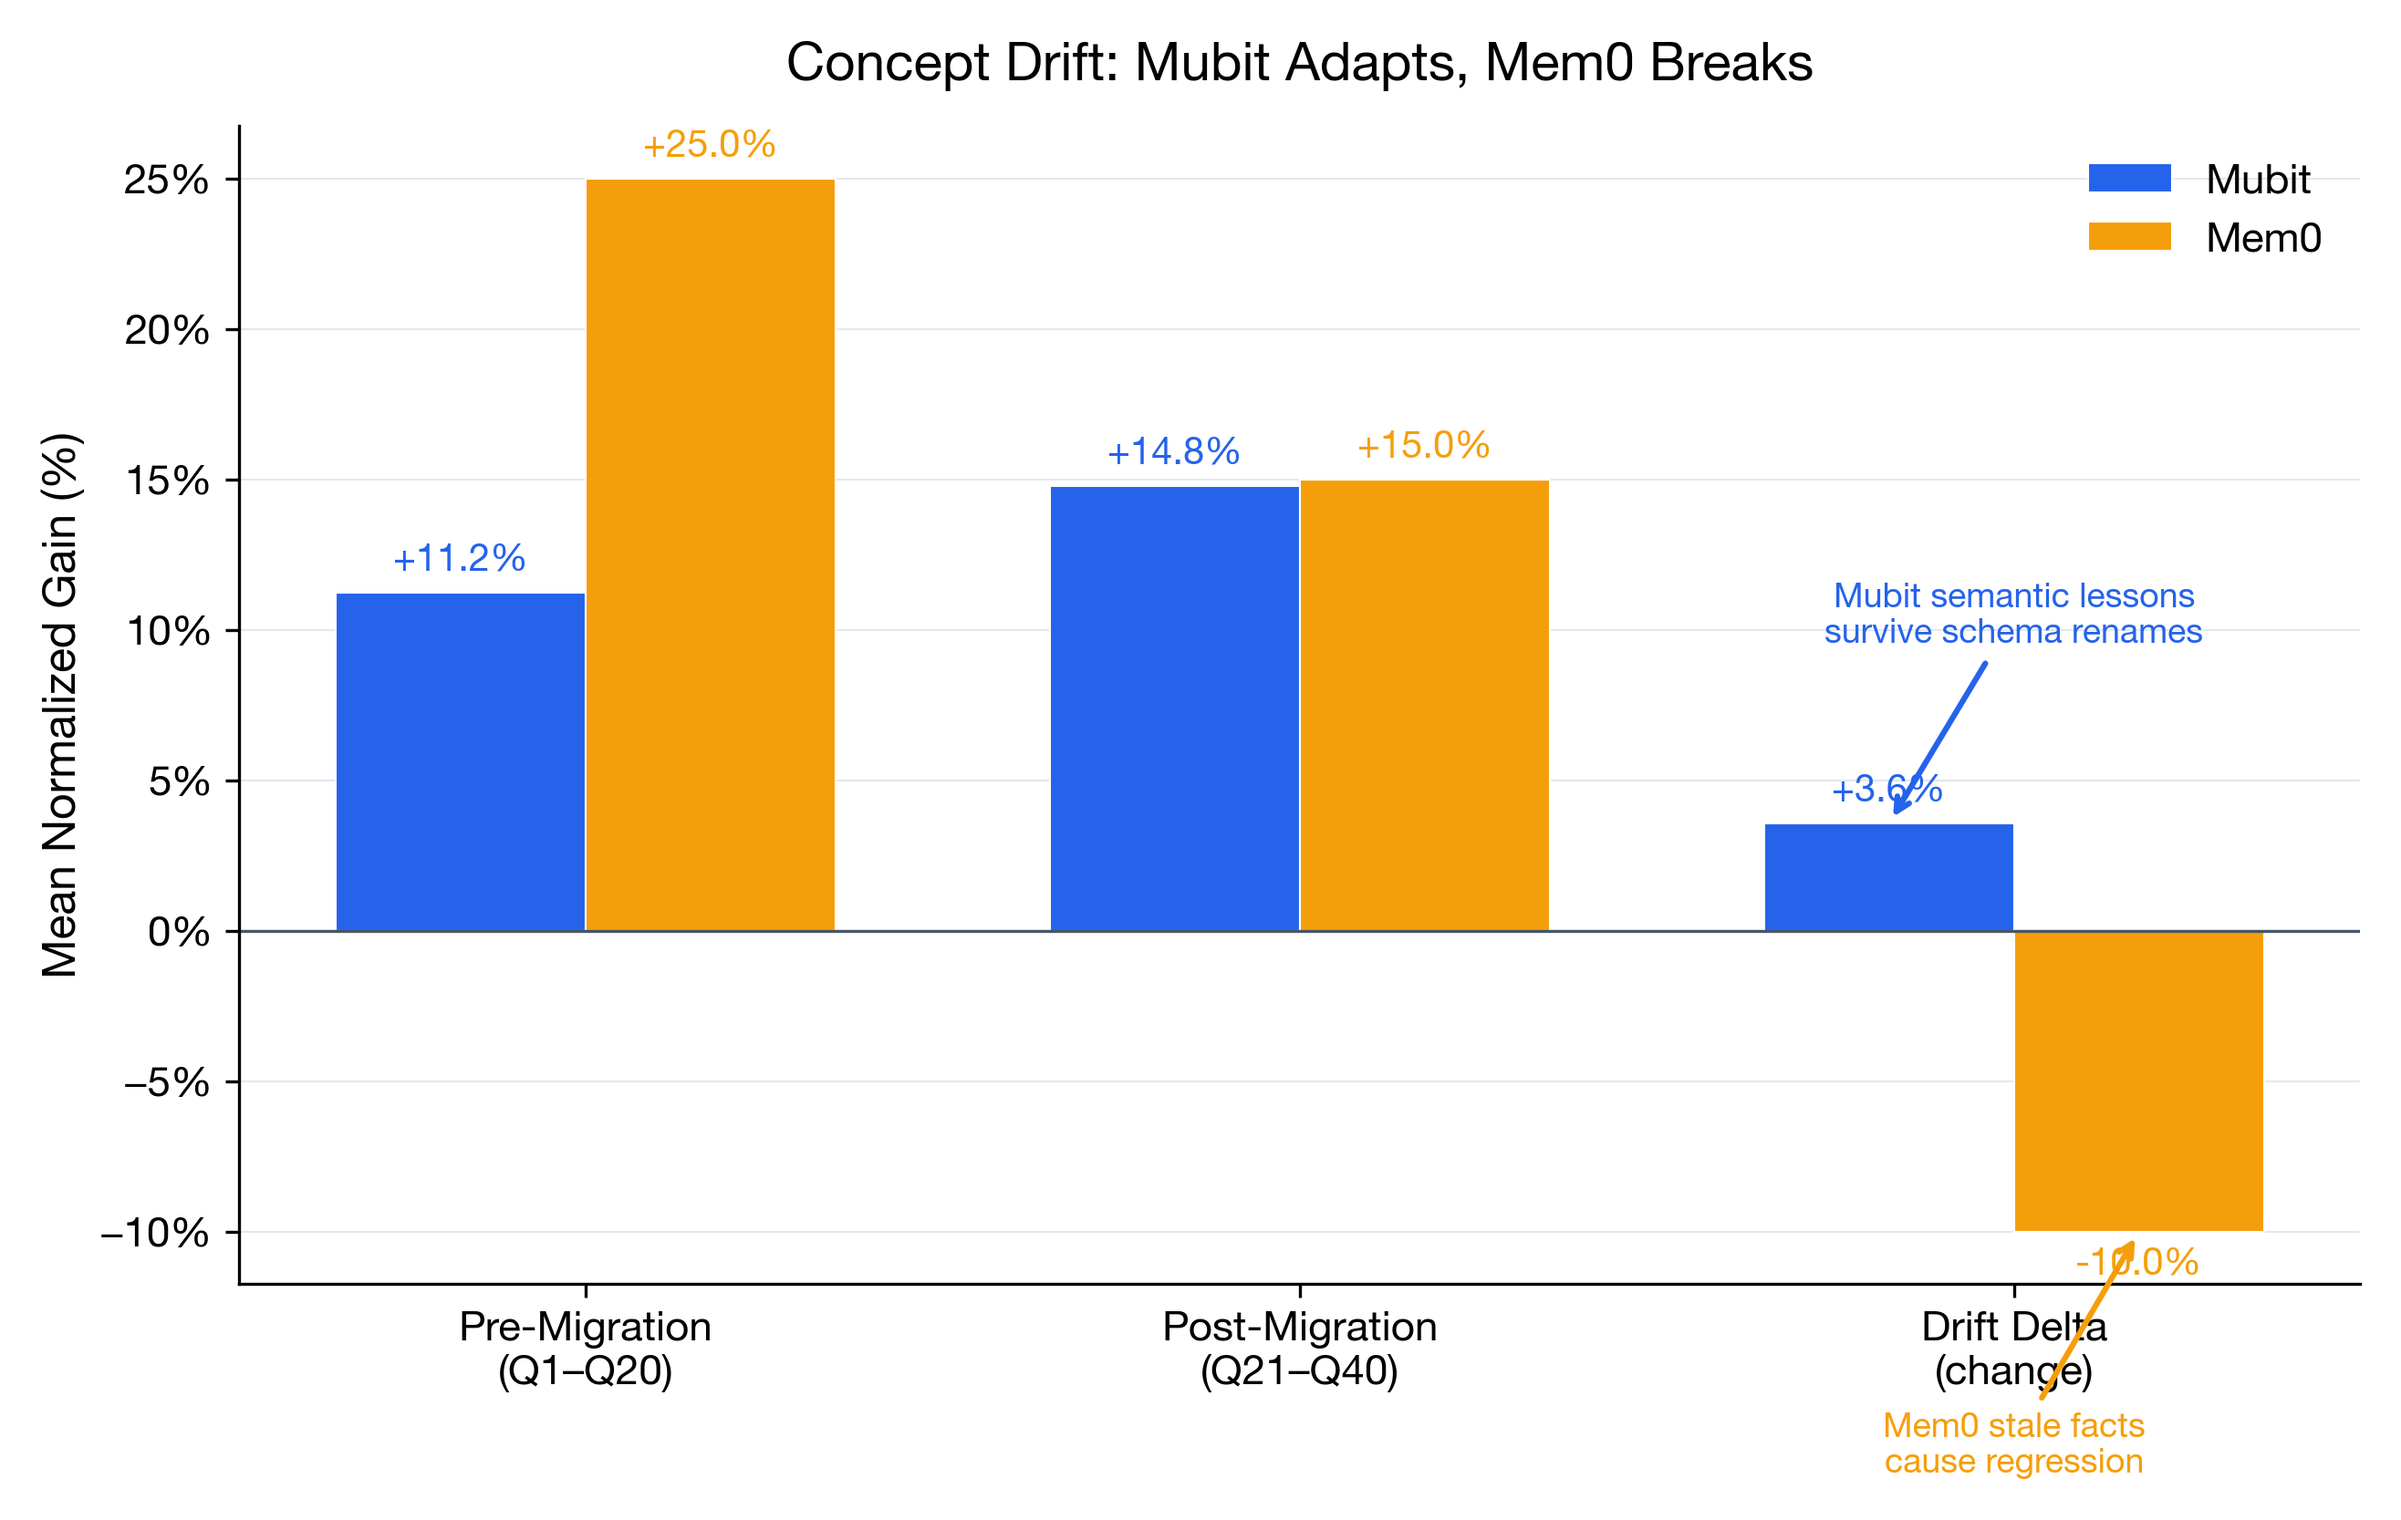
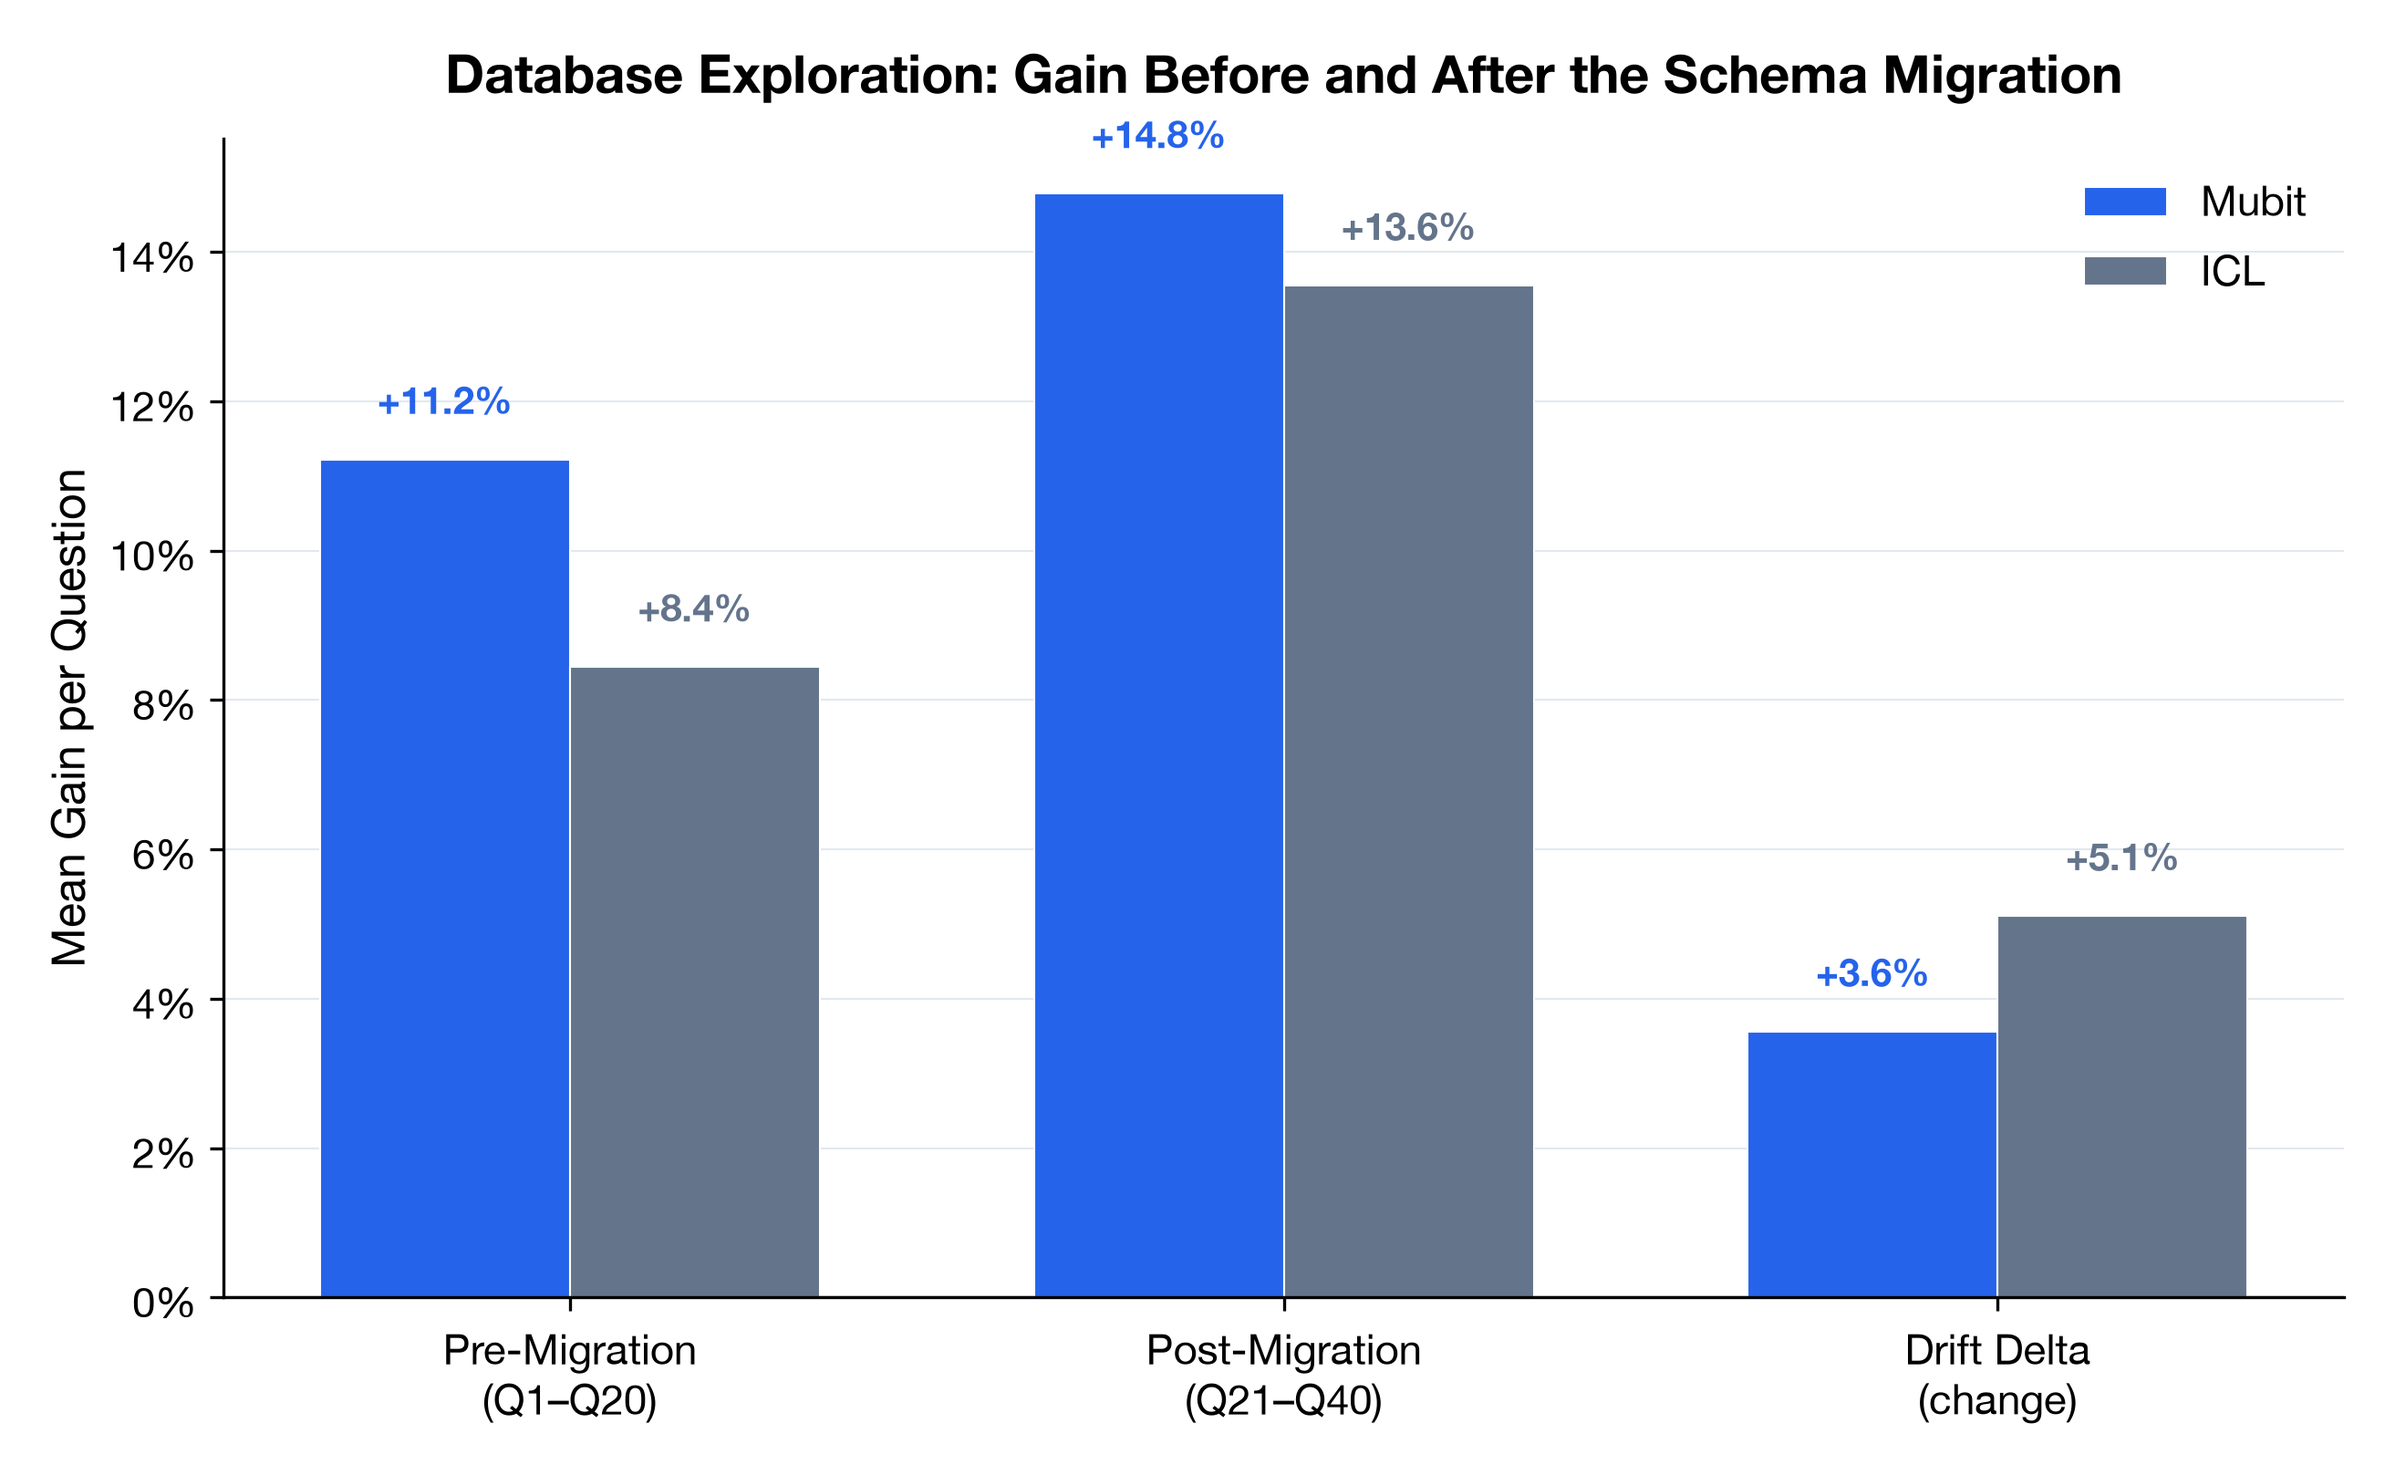
charts: the Mem0 drift series was hardcoded fallback constants
generate_charts.py built the Mem0 bars from d.get("pre_migration_gain_mem0",
0.25) and d.get("post_migration_gain_mem0", 0.15), and chart_data.json held
exactly 0.25 / 0.15 — the function's own defaults, written back into the data
file. There is no Mem0 artifact anywhere in results/ and no script computes
those keys, so "Concept Drift: Mubit Adapts, Mem0 Breaks" plotted one measured
series against one invented one. chart_7_mubit_vs_mem0_drift was the same
fabrication in a second chart, and summary_stats.database carried it as prose.

Replaced with the ICL series, which is real and reproduces from the artifacts
via analyze_results.py (pre +0.0844 -> post +0.1355 against Mubit's +0.1122 ->
+0.1478). The honest comparison is less flattering: ICL's drift delta is the
larger one.

Regenerating was the point — deleting the constants left charts/chart5 still
rendering the invented bars, since the committed PNG predates the change.

chart_1 plotted normalized g_b for some rows and raw gain for others under an
axis labelled "Raw Gain (r_sf - r_sl)"; the rows carrying g_b now say so, and
the Database row's model tag matches its artifact.

diff --git a/scripts/generate_charts.py b/scripts/generate_charts.py
@@ -331,22 +331,23 @@ def chart_4_per_run_consistency():
 
 
 def chart_5_drift_adaptation():
-    """Mubit vs Mem0 drift adaptation — the key differentiator."""
+    """Mubit vs ICL gain either side of the schema migration."""
     d = DATA["chart_5_database_drift_adaptation"]
 
     fig, ax = plt.subplots(figsize=(10, 5.5))
 
-    # Data: pre/post migration gains for Mubit vs Mem0
+    # Both series come from artifacts in results/database_exploration (mubit-db-3,
+    # icl-db-3). Mem0 used to be plotted here from invented constants — no Mem0 run exists.
     categories = ["Pre-Migration\n(Q1–Q20)", "Post-Migration\n(Q21–Q40)", "Drift Delta\n(change)"]
     mubit_vals = [
         d["pre_migration_gain_mubit"] * 100,
         d["post_migration_gain_mubit"] * 100,
         (d["post_migration_gain_mubit"] - d["pre_migration_gain_mubit"]) * 100,
     ]
-    mem0_vals = [
-        d.get("pre_migration_gain_mem0", 0.25) * 100,
-        d.get("post_migration_gain_mem0", 0.15) * 100,
-        (d.get("post_migration_gain_mem0", 0.15) - d.get("pre_migration_gain_mem0", 0.25)) * 100,
+    icl_vals = [
+        d["pre_migration_gain_icl"] * 100,
+        d["post_migration_gain_icl"] * 100,
+        (d["post_migration_gain_icl"] - d["pre_migration_gain_icl"]) * 100,
     ]
 
     x = np.arange(len(categories))
@@ -354,8 +355,8 @@ def chart_5_drift_adaptation():
 
     bars_m = ax.bar(x - width/2, mubit_vals, width, color=COLORS["mubit"],
                     label="Mubit", edgecolor="white", linewidth=0.5)
-    bars_e = ax.bar(x + width/2, mem0_vals, width, color=COLORS["mem0"],
-                    label="Mem0", edgecolor="white", linewidth=0.5)
+    bars_e = ax.bar(x + width/2, icl_vals, width, color=COLORS["icl"],
+                    label="ICL", edgecolor="white", linewidth=0.5)
 
     # Value labels
     for bar, val in zip(bars_m, mubit_vals):
@@ -364,36 +365,22 @@ def chart_5_drift_adaptation():
         ax.text(bar.get_x() + bar.get_width()/2, val + offset,
                 f"{val:+.1f}%", ha="center", va=va, fontsize=10, fontweight="bold",
                 color=COLORS["mubit"])
-    for bar, val in zip(bars_e, mem0_vals):
+    for bar, val in zip(bars_e, icl_vals):
         va = "bottom" if val >= 0 else "top"
         offset = 0.5 if val >= 0 else -0.5
         ax.text(bar.get_x() + bar.get_width()/2, val + offset,
                 f"{val:+.1f}%", ha="center", va=va, fontsize=10, fontweight="bold",
-                color=COLORS["mem0"])
+                color=COLORS["icl"])
 
     ax.axhline(y=0, color="#475569", linewidth=0.8)
     ax.set_xticks(x)
     ax.set_xticklabels(categories, fontsize=11)
-    ax.set_ylabel("Mean Normalized Gain (%)")
-    ax.set_title("Concept Drift: Mubit Adapts, Mem0 Breaks", pad=12, fontsize=14, fontweight="bold")
+    ax.set_ylabel(d["y_axis"])
+    ax.set_title(d["title"], pad=12, fontsize=14, fontweight="bold")
     ax.legend(frameon=False, fontsize=11, loc="upper right")
     ax.yaxis.set_major_formatter(mticker.PercentFormatter(decimals=0))
     ax.grid(axis="y", color=COLORS["grid"], linewidth=0.5)
     ax.set_axisbelow(True)
-
-    # Annotation on the drift delta
-    ax.annotate("Mubit semantic lessons\nsurvive schema renames",
-                xy=(2 - width/2, mubit_vals[2]),
-                xytext=(2, mubit_vals[2] + 6),
-                fontsize=9, fontweight="bold", color=COLORS["mubit"],
-                ha="center",
-                arrowprops=dict(arrowstyle="->", color=COLORS["mubit"], lw=1.5))
-    ax.annotate("Mem0 stale facts\ncause regression",
-                xy=(2 + width/2, mem0_vals[2]),
-                xytext=(2, mem0_vals[2] - 6),
-                fontsize=9, fontweight="bold", color=COLORS["mem0"],
-                ha="center", va="top",
-                arrowprops=dict(arrowstyle="->", color=COLORS["mem0"], lw=1.5))
 
     fig.savefig(OUTPUT_DIR / "chart5_drift_adaptation.png", facecolor="white")
     plt.close()
